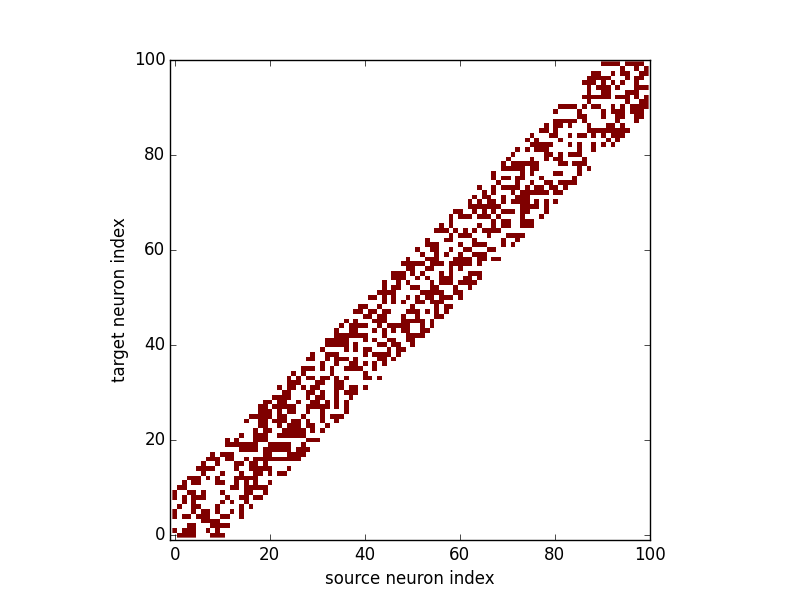
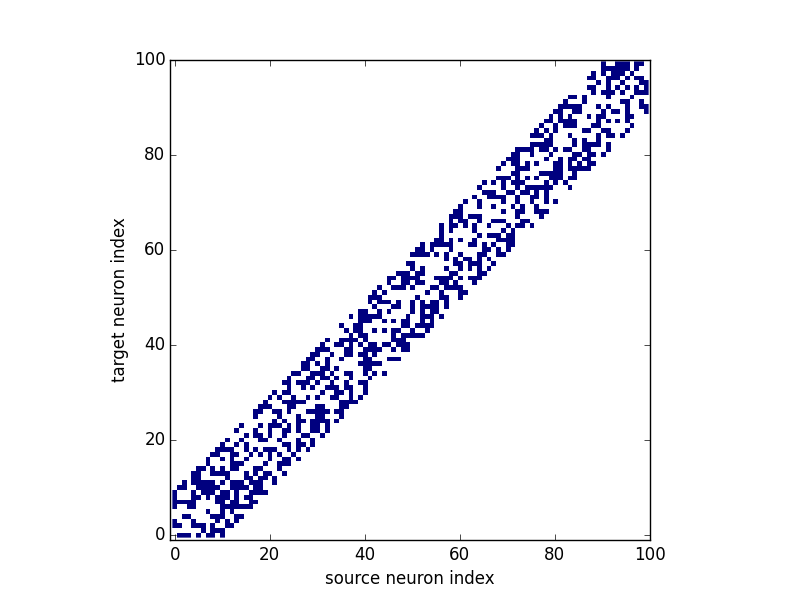
Small refactoring with helper functions, more consistent colors for synapse plots

Changed region(s): [[0.1875, 0.09, 0.8125, 0.9]]

diff --git a/brian2tools/plotting/synapses.py b/brian2tools/plotting/synapses.py
@@ -12,6 +12,71 @@ from mpl_toolkits.axes_grid1 import make_axes_locatable
 __all__ = ['plot_synapses']
 
 
+# Helper functions
+def _int_connection_matrix(sources, targets, values):
+    '''
+    Return a 2D connection matrix filled with integer values (typically the
+    number of synapses) in the form of a masked matrix (values equal to 0 are
+    masked)
+
+    Parameters
+    ----------
+    sources : ndarray of int
+        The indices of the source neurons for each value.
+    targets : ndarray of int
+        The indices of the target neurons for each value.
+    values : ndarray of int or int
+        The value for each (source, target) pair.
+
+    Returns
+    -------
+    matrix : ma.MaskedArray
+        The connection matrix, masked for 0 values
+    '''
+    assert np.min(values) > 0 and np.max(values) < 256
+    full_matrix = np.zeros((np.max(targets) - np.min(targets) + 1,
+                            np.max(sources) - np.min(sources) + 1),
+                           dtype=np.uint8)
+    full_matrix[targets - np.min(targets),
+                sources - np.min(sources)] = values
+    return ma.masked_equal(full_matrix, 0, copy=False)
+
+
+def _float_connection_matrix(sources, targets, values):
+    '''
+    Return a 2D connection matrix filled with floating point values (synaptic
+    weights, delays, ...) in the form of a masked matrix (entries without value
+    are set to NaN and masked).
+
+    Parameters
+    ----------
+    sources : ndarray of int
+        The indices of the source neurons for each value.
+    targets : ndarray of int
+        The indices of the target neurons for each value.
+    values : ndarray of float
+        The value for each (source, target) pair.
+
+    Returns
+    -------
+    matrix : ma.MaskedArray
+        The connection matrix, masked for NaN values
+    '''
+    full_matrix = np.ones((np.max(targets) - np.min(targets) + 1,
+                           np.max(sources) - np.min(sources) + 1)) * np.nan
+    full_matrix[targets - np.min(targets), sources - np.min(sources)] = values
+    masked_matrix = ma.masked_invalid(full_matrix, copy=False)
+    return masked_matrix
+
+
+def _discrete_color_mapping(user_cmap, n_synapses):
+    cmap = mpl.cm.get_cmap(user_cmap, np.max(n_synapses))
+    bounds = np.arange(np.max(n_synapses) + 1) + 0.5
+    norm = mpl.colors.BoundaryNorm(bounds, cmap.N)
+    return bounds, cmap, norm
+
+
+# Plot functions
 def plot_synapses(sources, targets, values=None, var_unit=None,
                   var_name=None, plot_type='scatter', axes=None, **kwds):
     '''
@@ -102,44 +167,29 @@ def plot_synapses(sources, targets, values=None, var_unit=None,
                                       "implemented for 'hexbin' plots.")
         unique_sources, unique_targets = zip(*connection_count.keys())
         n_synapses = list(connection_count.values())
-
+        bounds, cmap, norm = _discrete_color_mapping(kwds.pop('cmap', None),
+                                                     n_synapses)
+        # Make the plot
         if plot_type == 'scatter':
             marker = kwds.pop('marker', ',')
-            cmap = mpl.cm.get_cmap(kwds.pop('cmap', None), max(n_synapses))
-            bounds = np.arange(max(n_synapses) + 1) + 0.5
-            norm = mpl.colors.BoundaryNorm(bounds, cmap.N)
             axes.scatter(unique_sources, unique_targets, marker=marker,
-                         c=n_synapses, edgecolor=edgecolor, cmap=cmap, norm=norm,
-                         **kwds)
-        elif plot_type == 'image':
+                         c=n_synapses, edgecolor=edgecolor, cmap=cmap,
+                         norm=norm, **kwds)
+        else:
             assert np.max(n_synapses) < 256
-            full_matrix = np.zeros((np.max(unique_targets) - np.min(unique_targets) + 1,
-                                    np.max(unique_sources) - np.min(unique_sources) + 1),
-                                   dtype=np.uint8)
-            full_matrix[unique_targets - np.min(unique_targets),
-                        unique_sources - np.min(unique_sources)] = n_synapses
-            cmap = mpl.cm.get_cmap(kwds.pop('cmap', None),
-                                   max(n_synapses) + 1)
-            bounds = np.arange(1, max(n_synapses) + 2) - 0.5
-            norm = mpl.colors.BoundaryNorm(bounds, cmap.N)
+            matrix = _int_connection_matrix(unique_sources, unique_targets,
+                                                 n_synapses)
             origin = kwds.pop('origin', 'lower')
             interpolation = kwds.pop('interpolation', 'nearest')
-            axes.imshow(ma.masked_equal(full_matrix, 0, copy=False),
-                        origin=origin, interpolation=interpolation,
+            axes.imshow(matrix, origin=origin, interpolation=interpolation,
                         cmap=cmap, norm=norm, **kwds)
-        elif plot_type == 'hexbin':
-            cmap = mpl.cm.get_cmap(kwds.pop('cmap', None),
-                                   max(n_synapses) + 1)
-            bounds = np.arange(max(n_synapses) + 2) - 0.5
-            norm = mpl.colors.BoundaryNorm(bounds, cmap.N)
-            axes.hexbin(sources, targets, cmap=cmap, norm=norm, **kwds)
 
+        # Add the colorbar
         locatable_axes = make_axes_locatable(axes)
         cax = locatable_axes.append_axes('right', size='5%', pad=0.05)
         mpl.colorbar.ColorbarBase(cax, cmap=cmap,
                                   norm=norm,
-                                  ticks=bounds-0.5,
-                                  spacing='proportional')
+                                  ticks=bounds-0.5)
         cax.set_ylabel('number of synapses')
     else:
         if plot_type == 'scatter':
@@ -149,29 +199,20 @@ def plot_synapses(sources, targets, values=None, var_unit=None,
                                    edgecolor=edgecolor, **kwds)
         elif plot_type == 'image':
             if values is not None:
-                full_matrix = np.ones((np.max(targets) - np.min(targets) + 1,
-                                       np.max(sources) - np.min(sources) + 1))*np.nan
-                full_matrix[targets-np.min(targets), sources-np.min(sources)] = values
-                masked_matrix = ma.masked_invalid(full_matrix, copy=False)
+                matrix = _float_connection_matrix(sources, targets, values)
             else:
-                full_matrix = np.zeros((np.max(targets) - np.min(targets) + 1,
-                                        np.max(sources) - np.min(sources) + 1),
-                                       dtype=np.uint8)
-                full_matrix[targets - np.min(targets), sources - np.min(sources)] = 1
-                masked_matrix = ma.masked_equal(full_matrix, 0, copy=False)
+                matrix = _int_connection_matrix(sources, targets, 1)
             origin = kwds.pop('origin', 'lower')
             interpolation = kwds.pop('interpolation', 'nearest')
-            if values is None:
-                vmin = kwds.pop('vmin', 0)
-            else:
-                vmin = kwds.pop('vmin', None)
-            plotted = axes.imshow(masked_matrix, origin=origin,
+            vmin = kwds.pop('vmin', 1 if values is None else None)
+            plotted = axes.imshow(matrix, origin=origin,
                                   interpolation=interpolation,
                                   vmin=vmin, **kwds)
         elif plot_type == 'hexbin':
             plotted = axes.hexbin(sources, targets, C=values, **kwds)
 
         if values is not None or plot_type == 'hexbin':
+            # Add a colorbar
             locatable_axes = make_axes_locatable(axes)
             cax = locatable_axes.append_axes('right', size='7.5%', pad=0.05)
             plt.colorbar(plotted, cax=cax)
@@ -184,9 +225,11 @@ def plot_synapses(sources, targets, values=None, var_unit=None,
                     label += ' (%s)' % str(var_unit)
                 cax.set_ylabel(label)
 
-    axes.set_xlim(-1, max(sources)+1)
-    axes.set_ylim(-1, max(targets)+1)
+    axes.set_xlim(-1, max(sources) + 1)
+    axes.set_ylim(-1, max(targets) + 1)
     axes.set_xlabel('source neuron index')
     axes.set_ylabel('target neuron index')
 
     return axes
+
+
